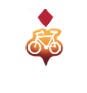
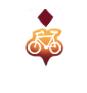
Heat map working using the dynamic data, but the dynamic data is not insync with the static data. (i.e. the bikes available for an address (dynamic data) does not match the address at the static station address (from static data)

Changed region(s): [[0.4368, 0.086, 0.6207, 0.3011]]

diff --git a/static/javascript/DBmaps_test.js b/static/javascript/DBmaps_test.js
@@ -36,67 +36,16 @@ function myMap() {
 
     // The following group uses the location array to create an array of markers on initialize.
 
-    //marker icon for the current location
-    // var image = "/static/images/custom-marker-current.png";
-    // var currentMarker = new google.maps.Marker({
-    //     position: {lat: 53.3415, lng: -6.25685},
-    //     map: map,
-    //     icon: image
-    // });
-            //marker icon for the current location
-//    var image = "/static/images/custom-marker-current.png";
-//    var currentMarker = new google.maps.Marker({
-//        position: {lat: 53.3415, lng: -6.25685},
-//        map: map,
-//        icon: image
-//    });
-
-    //changing icon image for all the marker
-    // var iconBase = 'https://maps.google.com/mapfiles/kml/shapes/';
-    // var icons = {
-    //     bikes: {
-    //         icon: iconBase + "/static/images/custom-marker.png"
-    //     }
-        // ,
-        // library: {
-        //     icon: iconBase + 'library_maps.png'
-        // },
-        // info: {
-        //     icon: iconBase + 'info-i_maps.png'
-        // }
-    // };
-    //
-    // function addMarker(feature) {
-    //     var marker = new google.maps.Marker({
-    //         position: feature.position,
-    //         icon: icons[feature.type].icon,
-    //         map: map
-    //     });
-    // }
-
-    // var features = [
-    //     {
-    //         position: new google.maps.LatLng(53.341, -6.26229),
-    //         type: 'bikes'
-    //     }
-    //     // ,{
-    //     //     position: new google.maps.LatLng(-33.91727341958453, 151.23348314155578),
-    //     //     type: 'library'
-    //     //   }
-    // ];
-
-
-
 
     function renderHTML(bikeObj, dynObj) {
         var largeInfowindow = new google.maps.InfoWindow();
-        var image = "/static/images/marker5.png";
+        // var image = "/static/images/marker5.png";
         for (var i = 0; i < bikeObj.length; i++) {
-
-            // console.log(dynObj[i].name);
+            // console.log(dynObj[i].available_bikes);
             // console.log(bikeObj[i].name);
             // console.log(getObjectKeyIndex(dynObj, bikeObj[i].name));
-
+            var availBikes = dynObj[i].available_bikes;
+            var availBikeStands = dynObj[i].available_bike_stands;
             var lngPos = bikeObj[i].position_lng;
             var latPos = bikeObj[i].position_lat;
             // console.log(position);
@@ -105,15 +54,53 @@ function myMap() {
             var station = bikeObj[i].number;
             // Create a marker per location, and put into markers array.
             //you take the info from here and put into the comment box when you click the marker.
+
+            var percentage10 = bikeObj[i].bike_stands*(10/100);
+            var percentage30 = bikeObj[i].bike_stands*(30/100);
+            var percentage50 = bikeObj[i].bike_stands*(50/100);
+            var percentage80 = bikeObj[i].bike_stands*(80/100);
+
+            //HEAT MAP CONDITIONS
+            switch (true){
+                case(availBikes == '0'):
+                    console.log(' no bikes');
+                    varIcon = '/static/images/nobikes.png';
+                    break;
+                case(availBikes < percentage10):
+                    console.log(' 10');
+                    varIcon = '/static/images/marker1.png';
+                    break;
+                case(availBikes < percentage30):
+                    console.log(' 30');
+                    varIcon = '/static/images/marker2.png';
+                    break;
+                case(availBikes < percentage50):
+                    console.log(' 50');
+                    varIcon = '/static/images/marker3.png';
+                    break;
+                case(availBikes < percentage80):
+                    console.log(' 80');
+                    varIcon = '/static/images/marker4.png';
+                    break;
+                default:
+                    console.log(' full');
+                    varIcon = '/static/images/marker5.png';
+            }
+
+            console.log(availBikes, "", availBikeStands);
             var marker = new google.maps.Marker({
                 position: new google.maps.LatLng(latPos, lngPos),
                 title: title,
                 station: station,
                 address: address,
-                icon: image,
+                availBikes: availBikes,
+                availBikeStands: availBikeStands,
+                icon: varIcon,
                 animation: google.maps.Animation.DROP,
                 id: i
             });
+
+
             // console.log(marker);
             // Push the marker to our array of markers.
             markers.push(marker);
@@ -124,6 +111,8 @@ function myMap() {
             'Area: ' + marker.title +
             '<br>Station number: ' + marker.station +
             '<br>Address: ' + marker.address +
+            // '<br>Available bikes: ' + marker.availBikes +
+            // '<br>Available bike stands: ' + marker.availBikeStands +
             '<br><a /href="#" id="moreInfo">more info</a> ' + '</div>');
 
             });
@@ -184,9 +173,9 @@ function myMap() {
 }
 
 
+function getObjectKeyIndex(obj, keyToFind) {
 //trying to match the key value name from dynamic with the value for the current static name and return an index
 //so can match the correct info on the corresponding markers!
-function getObjectKeyIndex(obj, keyToFind) {
     var i = 0, key;
     for (x = 0; i < obj.length; i++) $.each(obj, function (key, value) {
         // console.log("obj" ,obj[x]);
@@ -249,11 +238,11 @@ function hideListings() {
 
 //This function receives a station from the dropdown menu and zooms in on it
 function zoomfocus(station){
-    console.log('Hello')
+    console.log('Hello');
     //Checks what the current icon is for the station
     for (var i = 0; i < markers.length; i++){
         if(markers[i].icon == "/static/images/custom-marker-current.png"){
-            markers[i].setIcon("/static/images/custom-marker.png");
+            markers[i].setIcon("/static/images/marker5.png");
         }
     }
     //takes in the station name as a variable, changes the map focus to the position and change the icon to the current icon

diff --git a/DB_connection_app.py b/DB_connection_app.py
@@ -75,6 +75,6 @@ def get_dynamic2(name):
 
 
 if __name__ == "__main__":
-    app.run(debug=True, port=5002)
+    app.run(debug=True, port=5000)
 
 
